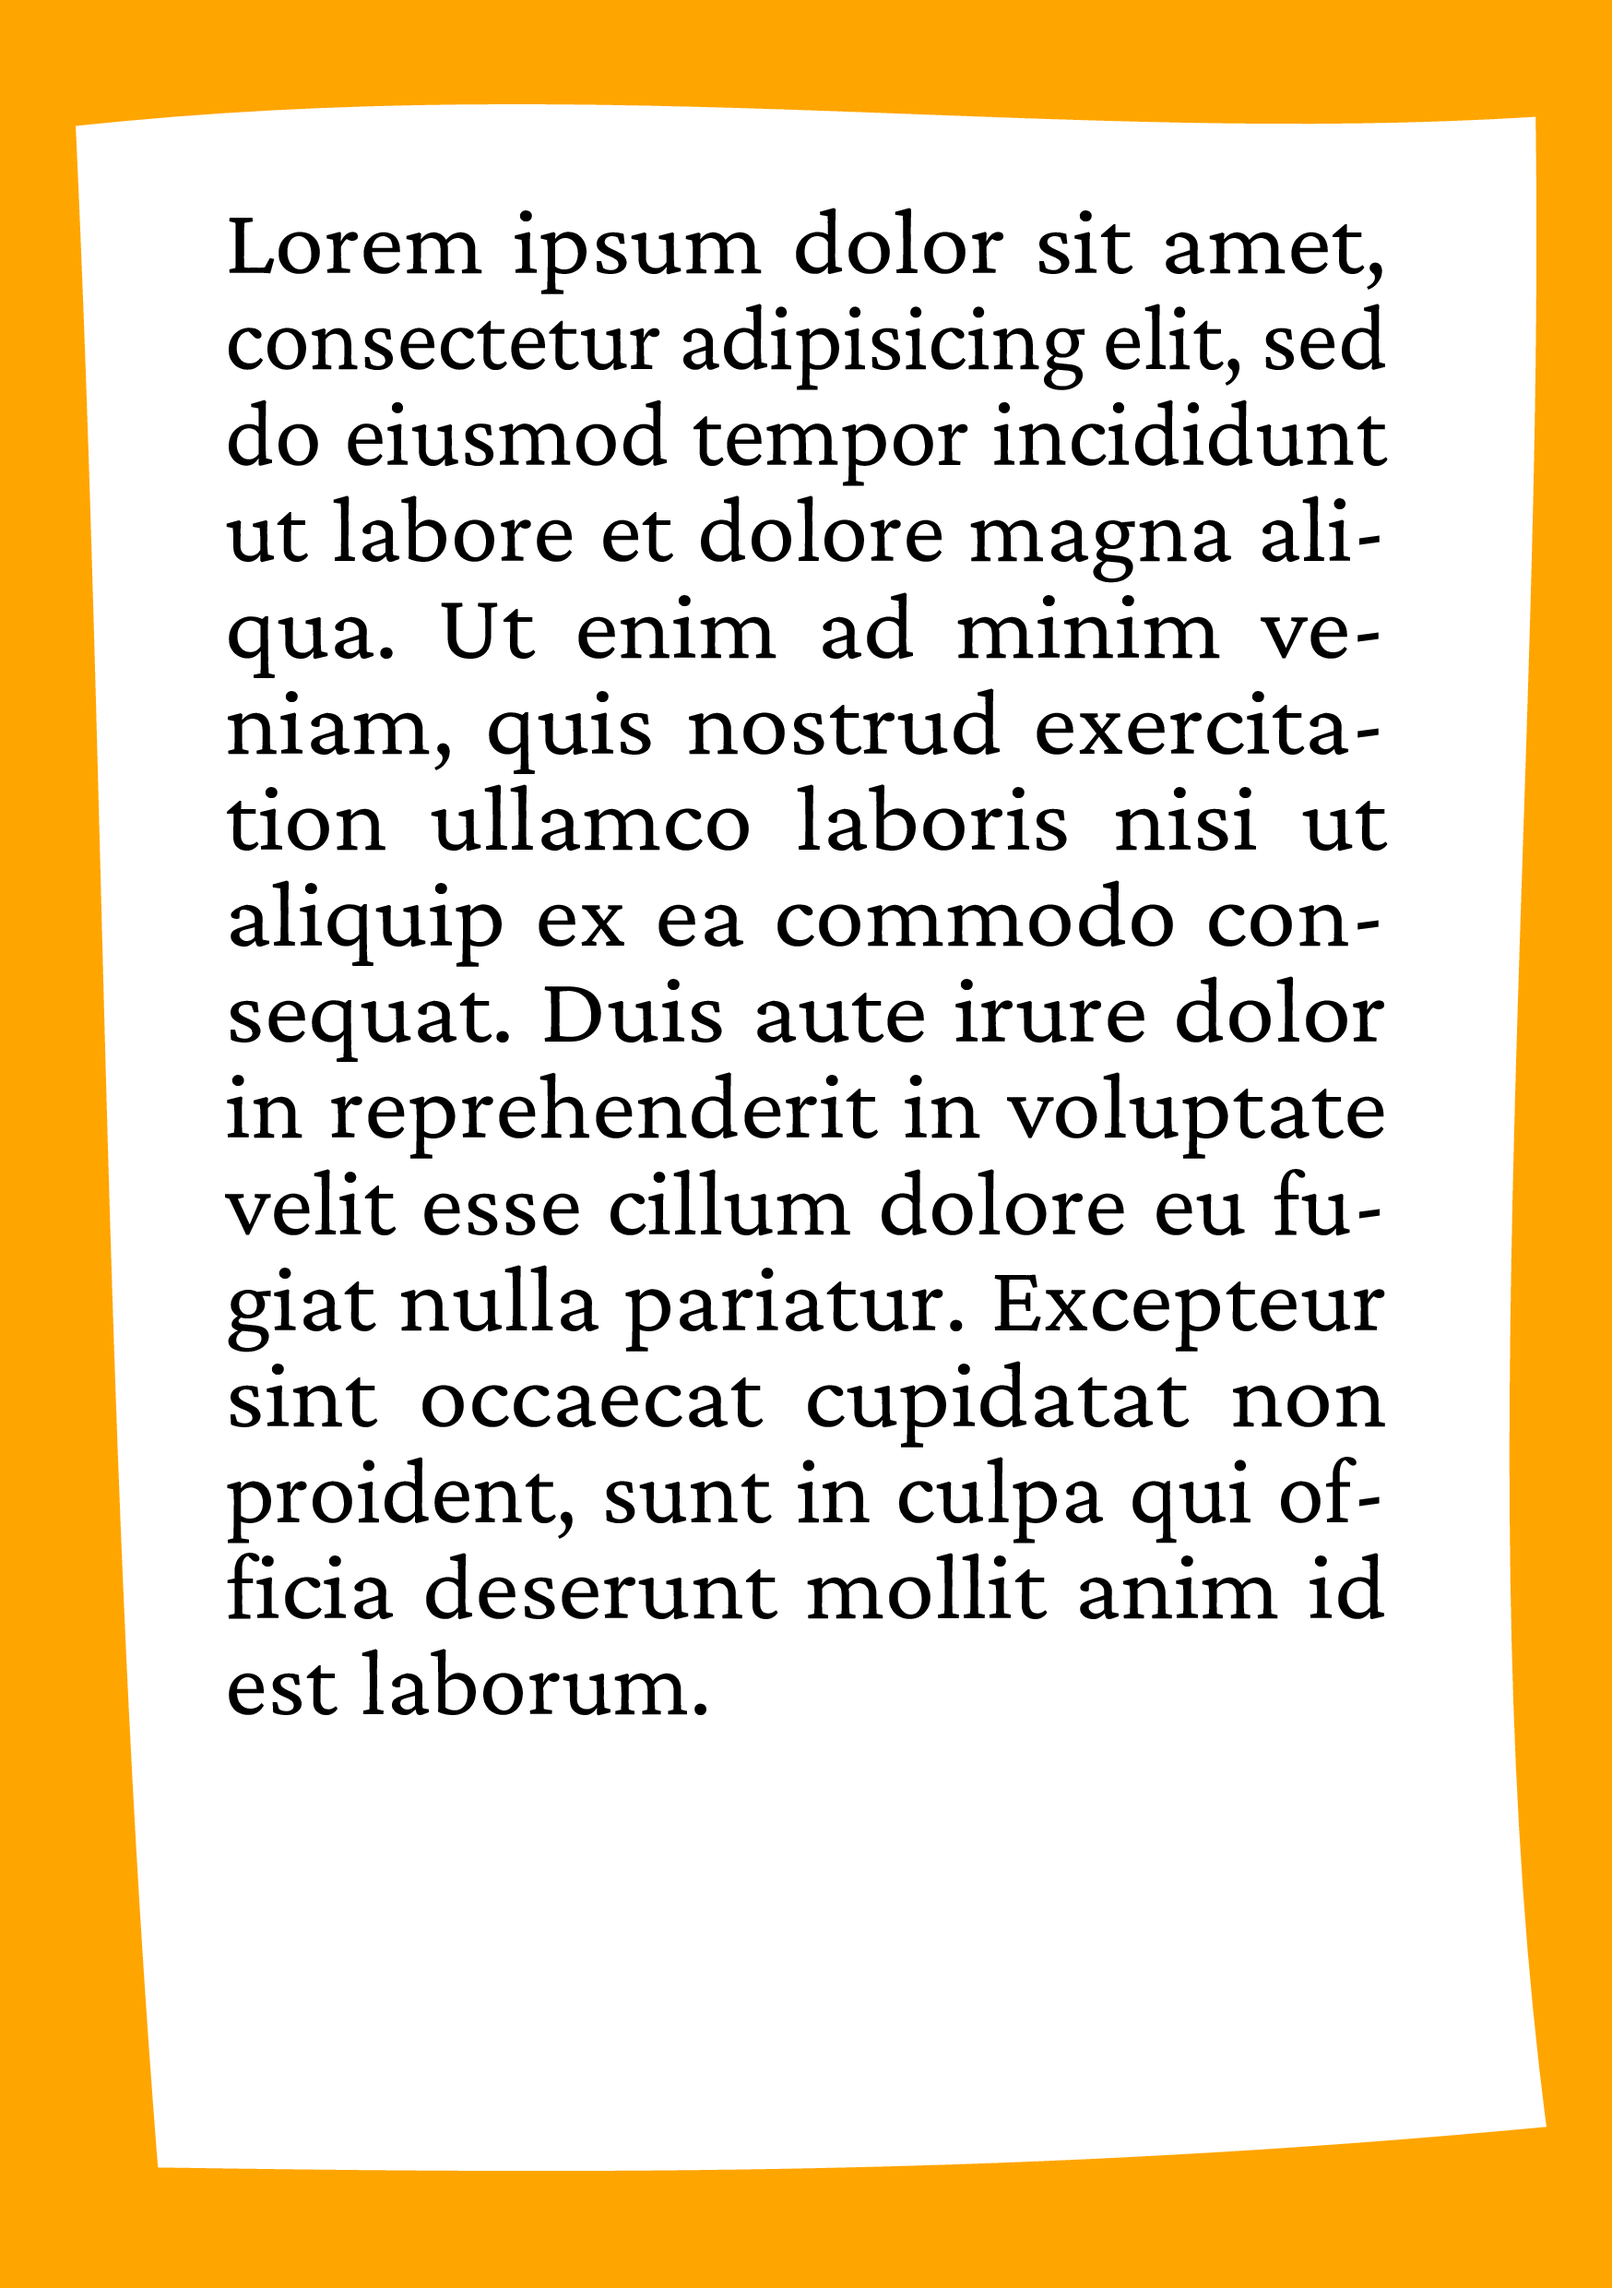
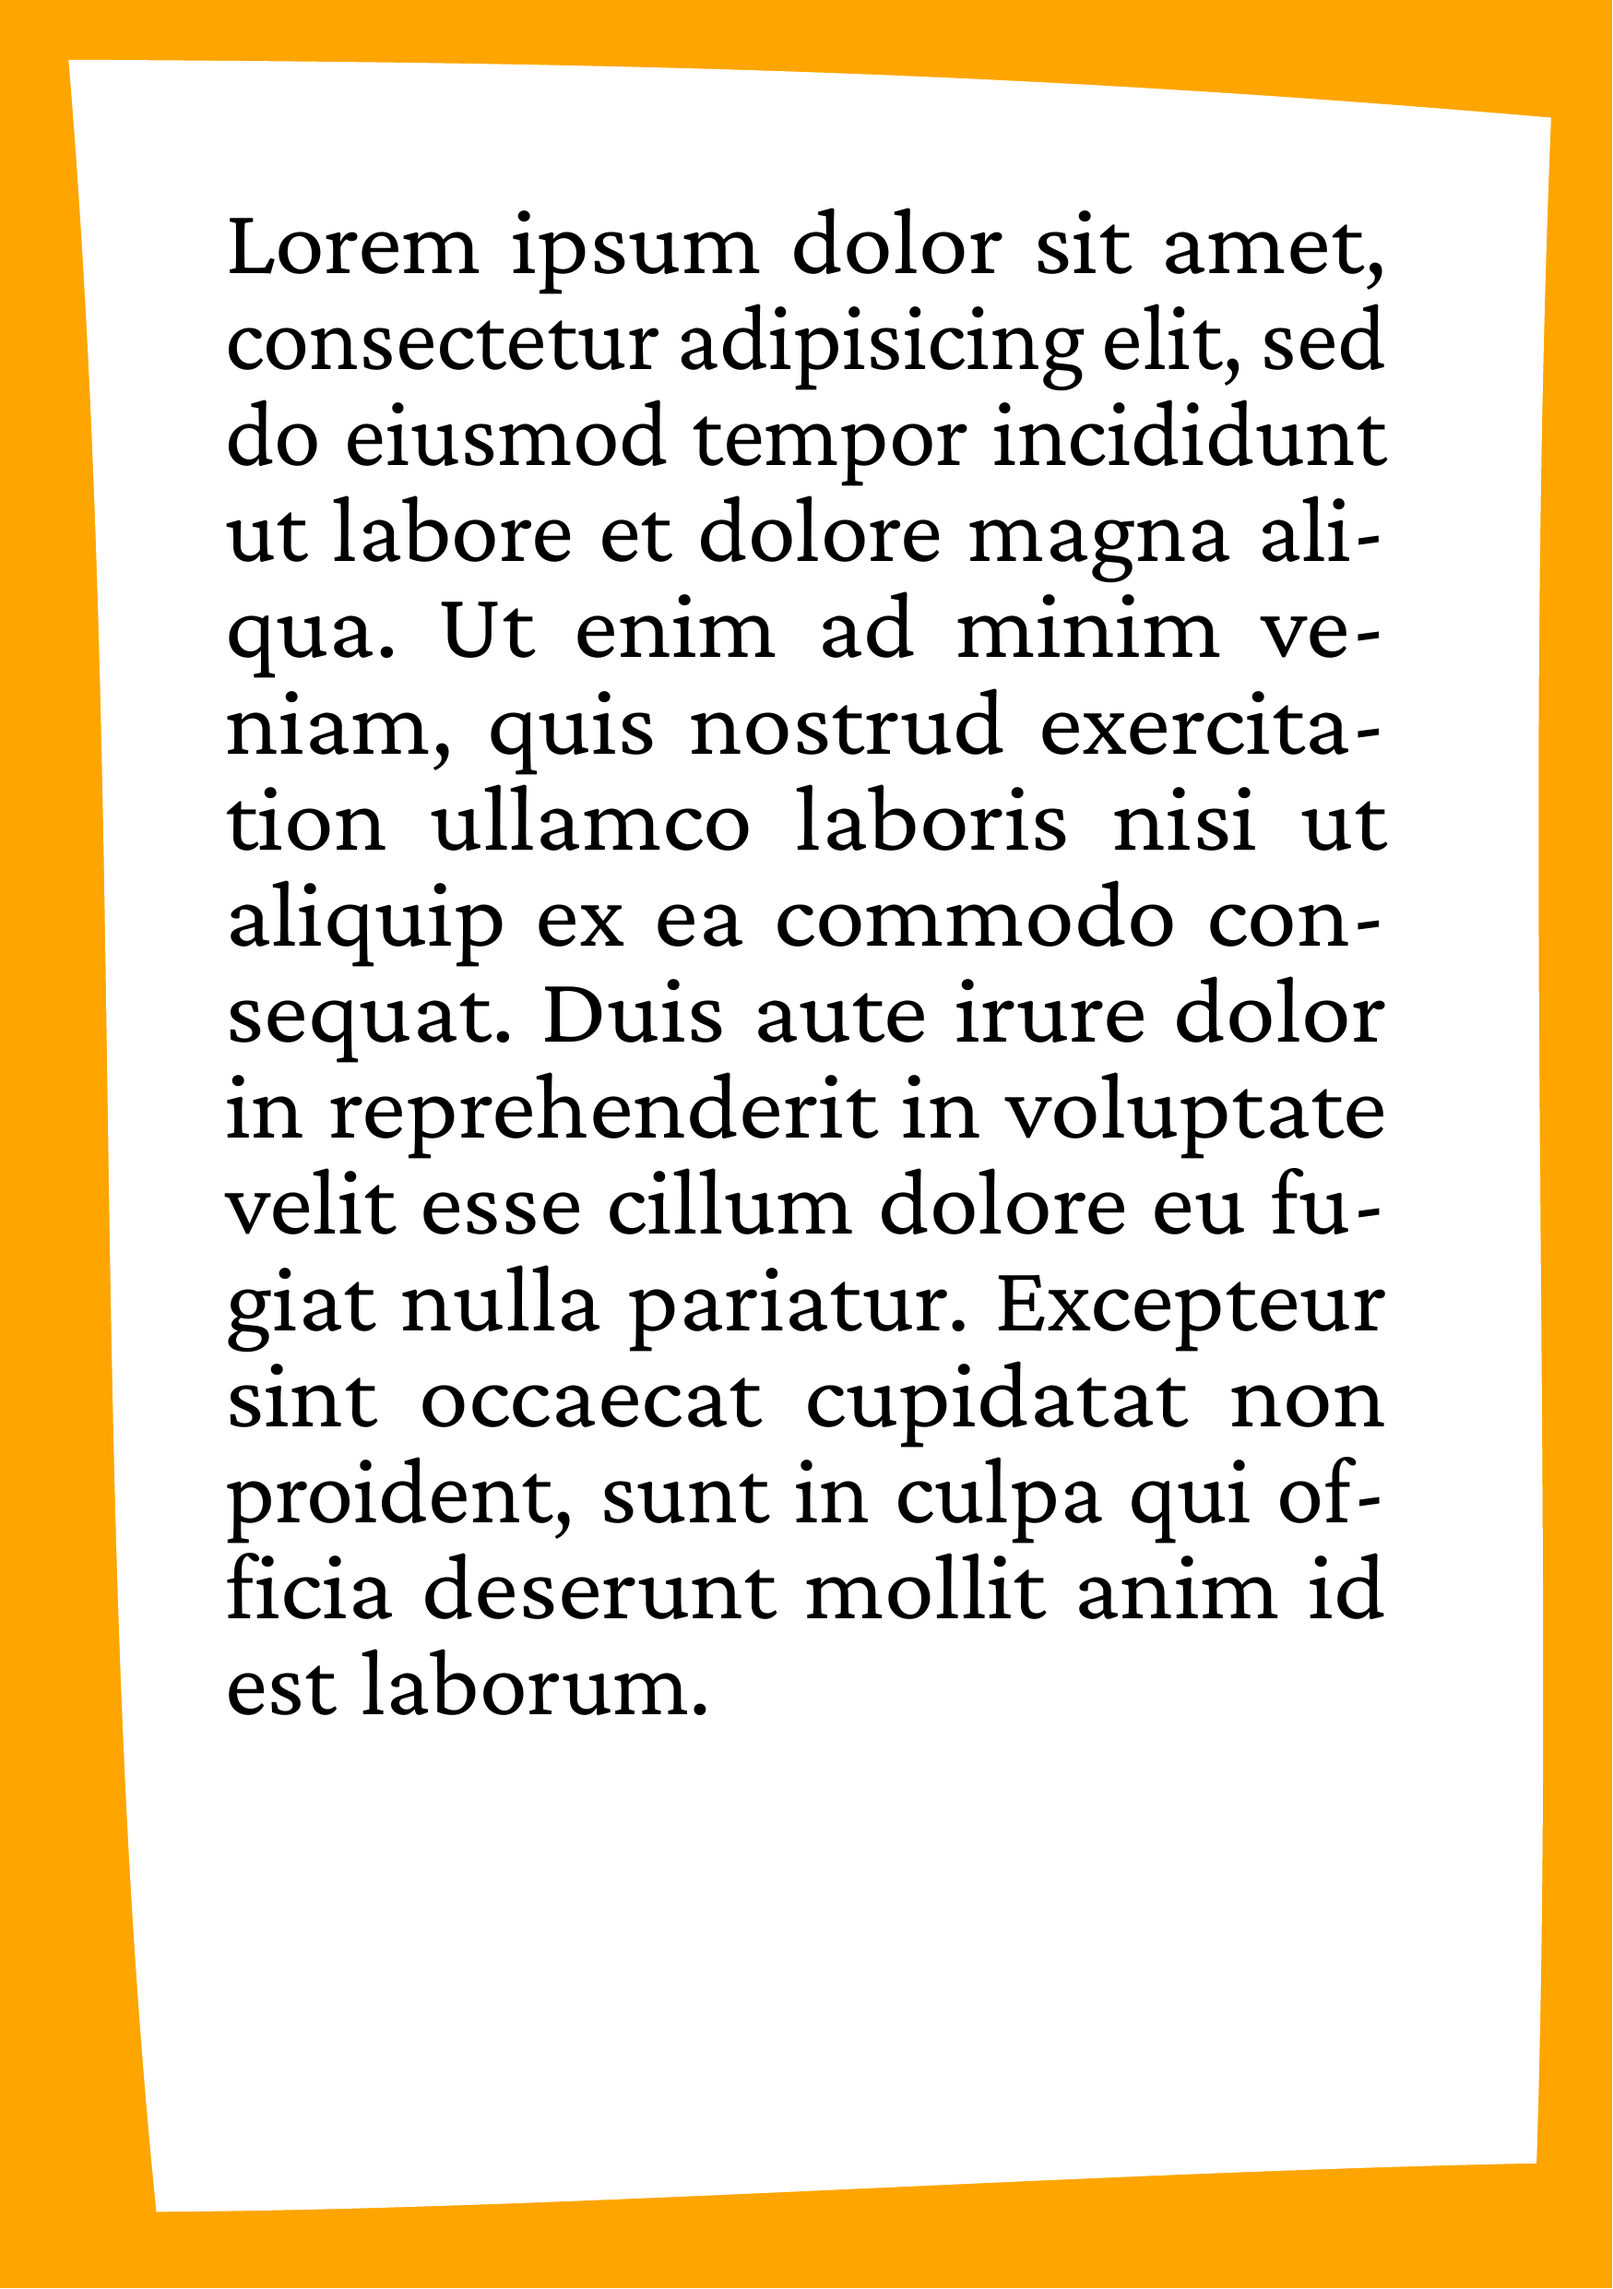
Make example results reproducible
The table of contents sets three runs in the layout, and the metapost
page margin uses a fixed random seed. Ignore publisher-toc.xml.

diff --git a/manual/tableofcontents/Readme.md b/manual/tableofcontents/Readme.md
@@ -1,6 +1,6 @@
 To get the PDF:
 
-Run `sp --runs 3` on the command line inside this directory. Three runs are needed: the first collects the page numbers, the second adds the table of contents at the front (which shifts everything back by one page), and the third outputs the correct numbers.
+Run `sp` on the command line inside this directory. The layout sets `<Options runs="3"/>`, because three runs are needed: the first collects the page numbers, the second adds the table of contents at the front (which shifts everything back by one page), and the third outputs the correct numbers.
 
 ----
 
